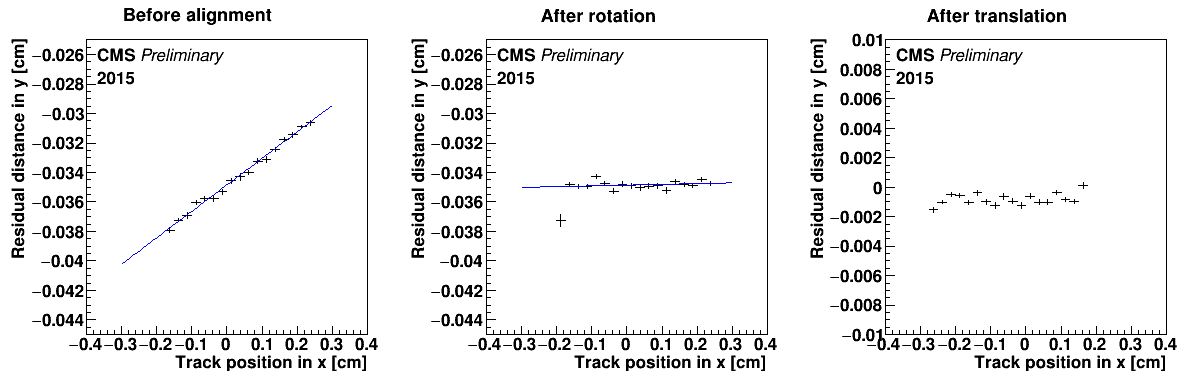
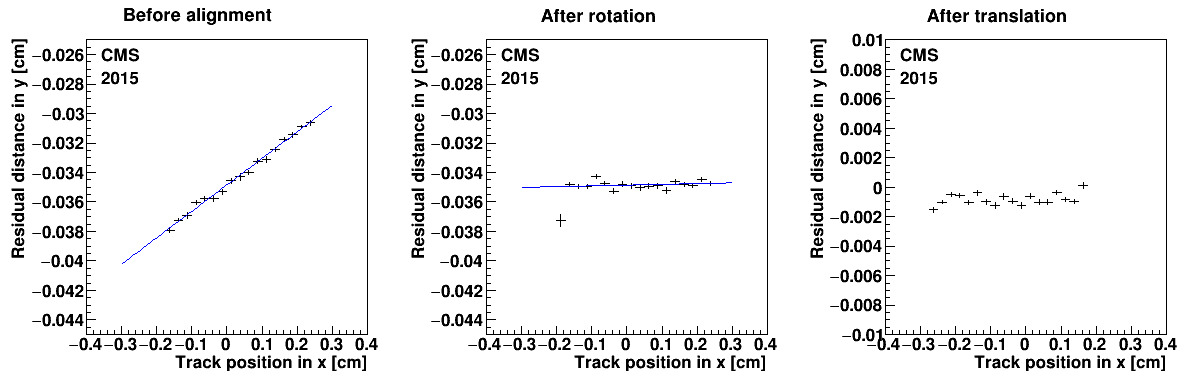
remove "Preliminary" from Fig. 7

Changed region(s): [[0.4015, 0.117, 0.525, 0.234], [0.0618, 0.117, 0.1853, 0.234], [0.7412, 0.117, 0.8648, 0.234]]

diff --git a/Alignment/PlotAlignment4444Paper.C b/Alignment/PlotAlignment4444Paper.C
@@ -63,21 +63,21 @@ void PlotAlignment4444Paper(void) {
 
   TText *t1 = new TText(0, 0, "CMS");
   t1->SetNDC();
-  t1->SetX(0.23);
+  t1->SetX(0.24);
   t1->SetY(0.84);
   t1->SetTextFont(61);
   t1->SetTextSize(0.05);
   t1->Draw();
   TText *t2 = new TText(0, 0, "Preliminary");
   t2->SetNDC();
-  t2->SetX(0.345);
+  t2->SetX(0.355);
   t2->SetY(0.84);
   t2->SetTextFont(52);
   t2->SetTextSize(0.05);
-  t2->Draw();
+  //t2->Draw();
   TText *t3 = new TText(0, 0, "2015");
   t3->SetNDC();
-  t3->SetX(0.23);
+  t3->SetX(0.24);
   t3->SetY(0.78);
   t3->SetTextSize(0.05);
   t3->Draw();
@@ -100,7 +100,7 @@ void PlotAlignment4444Paper(void) {
   h2->Draw();
 
   t1->Draw();
-  t2->Draw();
+  //t2->Draw();
   t3->Draw();
 
   c1->cd(3);
@@ -118,7 +118,7 @@ void PlotAlignment4444Paper(void) {
   h3->Draw();
 
   t1->Draw();
-  t2->Draw();
+  //t2->Draw();
   t3->Draw();
 
   c1->Print("Alignment_XdY_4444_Ch7_ROC1.pdf");
